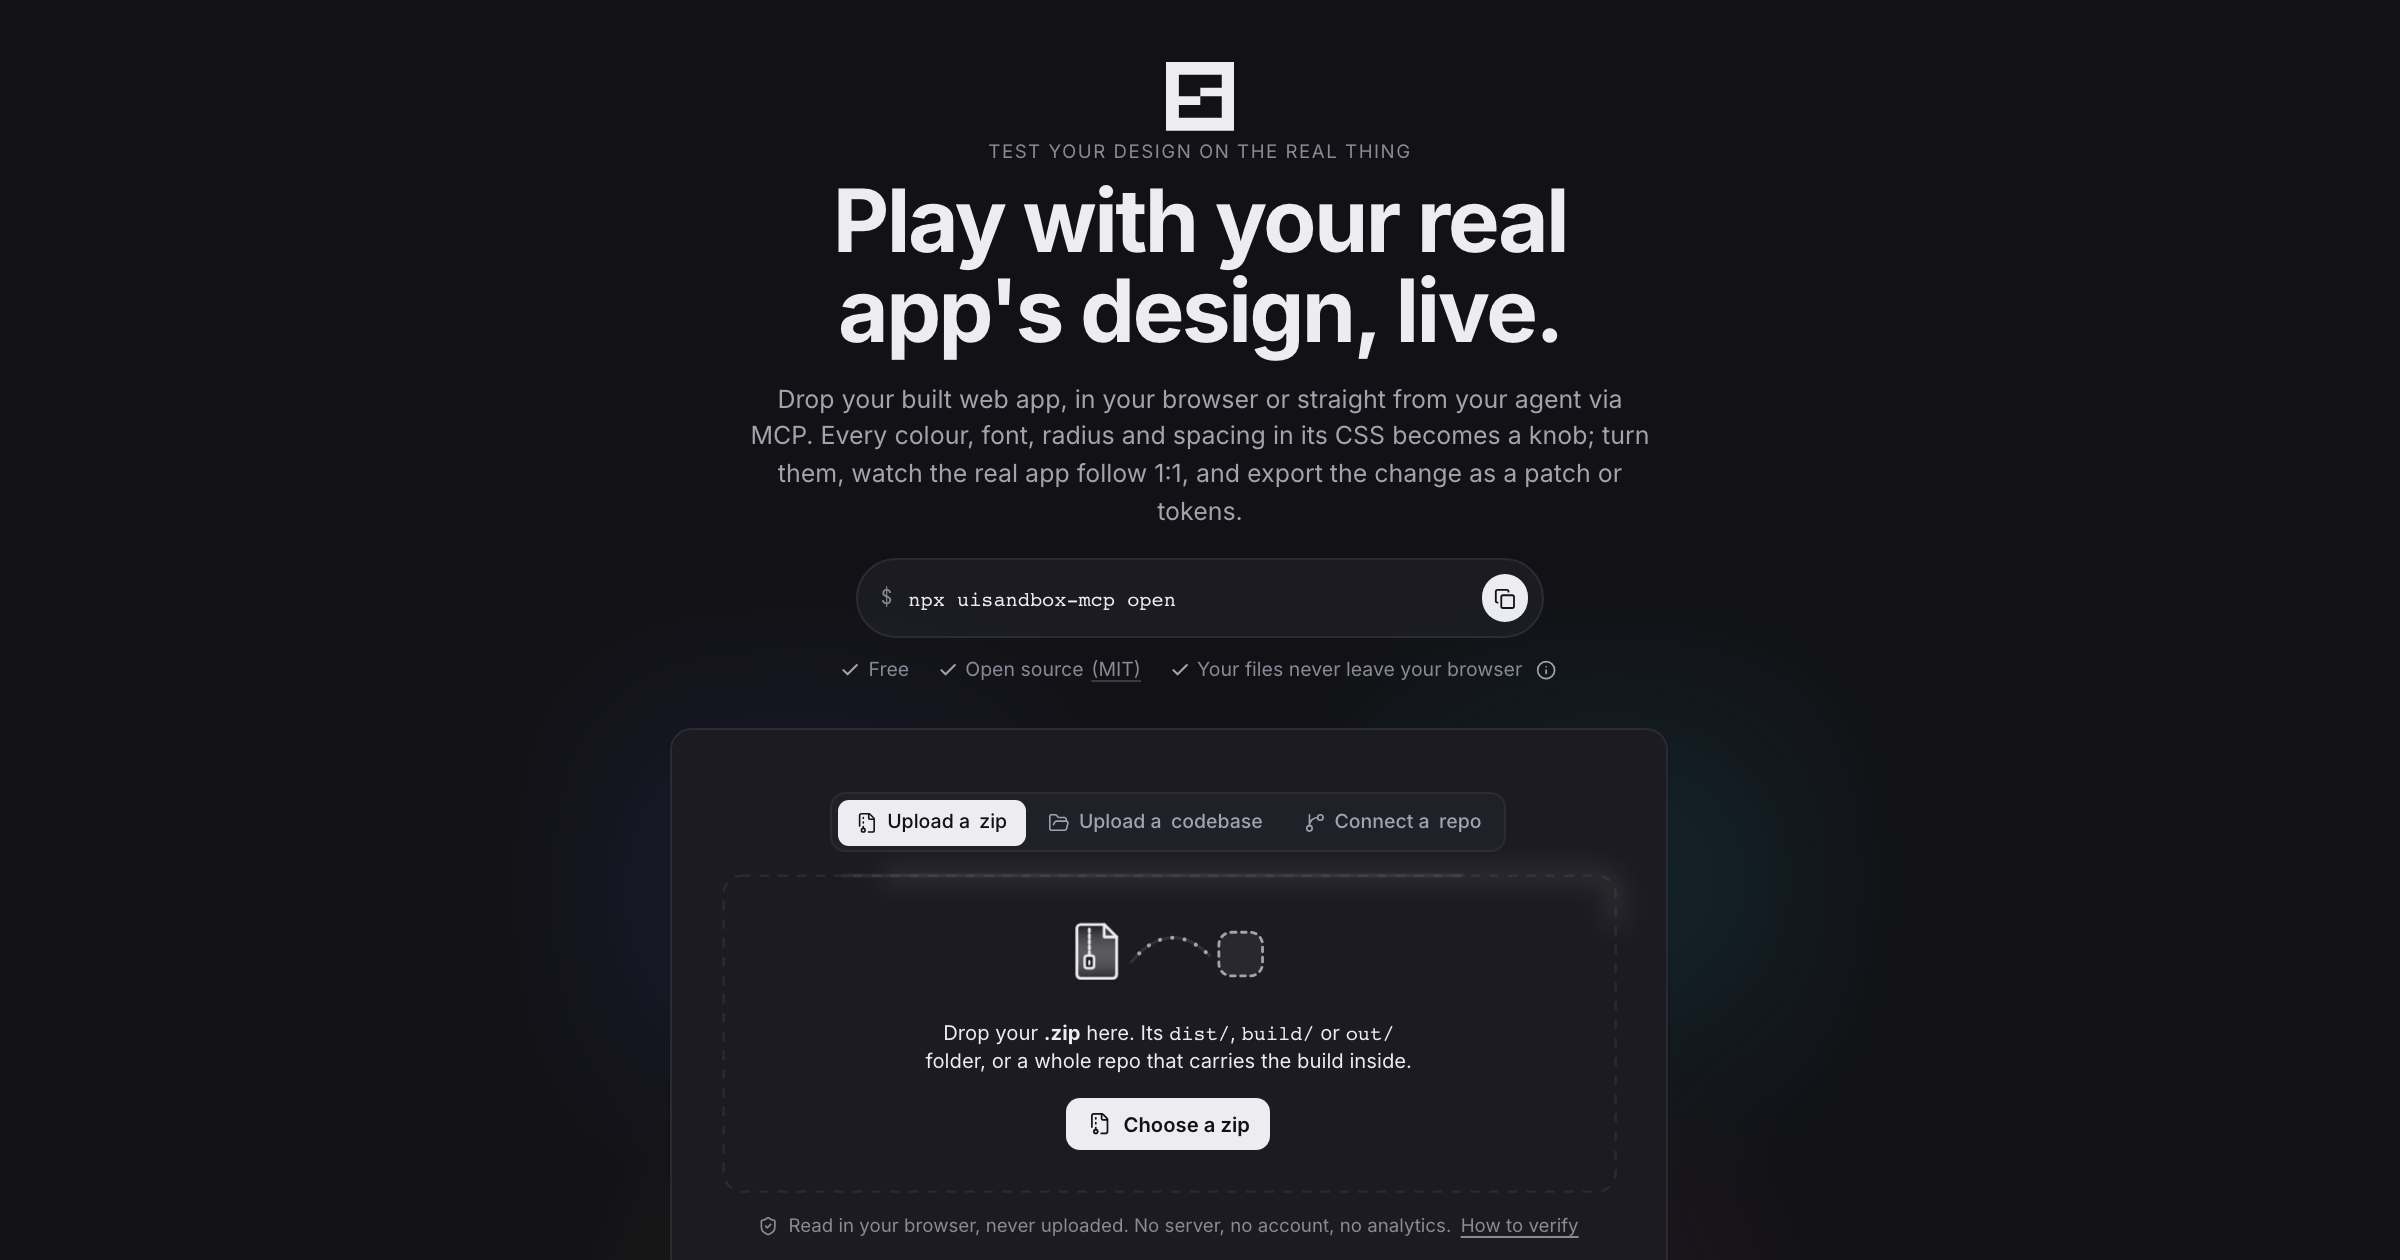
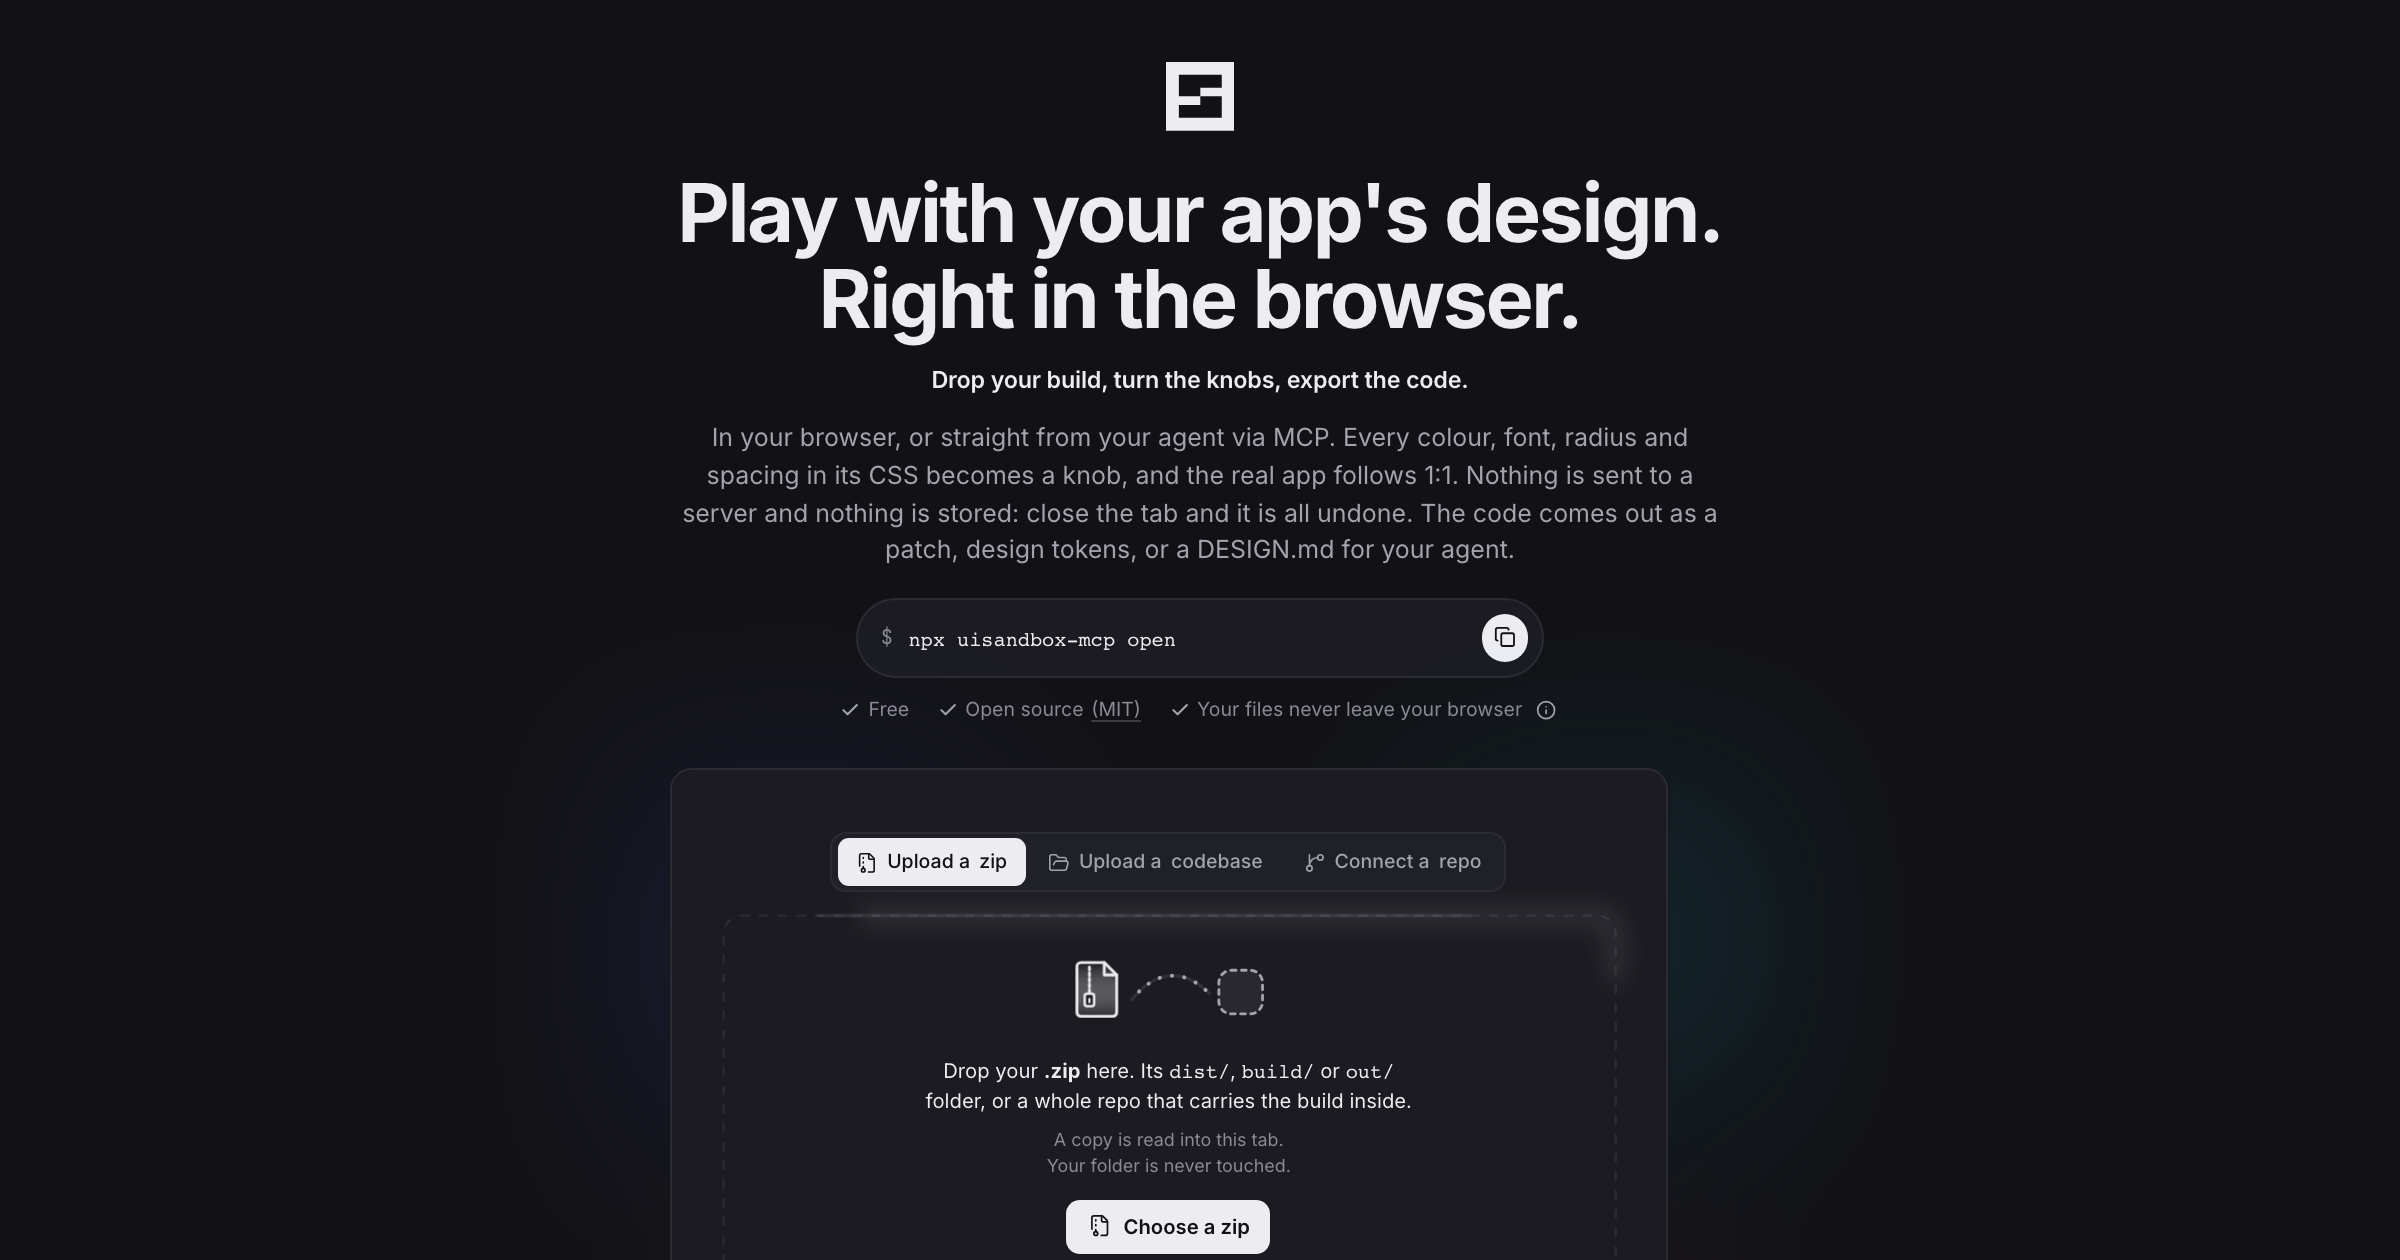
Every picture on the site still showed the old copy
The OG card is a screenshot of the landing, and it was taken before the
headline changed: it carried the removed kicker, 'Play with your real
app's design, live', the old paragraph and 'never uploaded'. That is what
every share on X, LinkedIn, Slack, Product Hunt and HN would have shown.
Same for the README hero and the eight landing screenshots, one of which
still had 'Nothing leaves your tab' in its footer.

Worse, the no-JS block inside index.html had drifted too: it held the new
three beats in the old kicker slot ABOVE an old headline, so a crawler
that does not run JavaScript, which is most of the LLM ones, was reading
a hero that no longer exists. It now mirrors the real one.

Regenerated: og.png, both marketing OG cards, the README hero, all eight
landing shots. Fixed the og.html template and dropped a .hero__kicker
override from two generators, since that class is gone.

diff --git a/index.html b/index.html
@@ -69,9 +69,11 @@
       .pre header span{display:inline-block;width:16px;height:16px;background:var(--fg);border-radius:3px;margin-right:8px}
       .pre main{flex:1;padding:48px 24px 64px;display:flex;flex-direction:column;align-items:center;text-align:center}
       .pre .m{width:44px;height:44px;background:var(--fg);border-radius:4px;margin-top:12px}
+      .pre .beats{font-size:15px;font-weight:600;letter-spacing:-.01em;color:var(--fg);margin:0 0 14px}
       .pre .k{font-size:12px;letter-spacing:.08em;text-transform:uppercase;color:var(--fa);margin-top:14px}
-      .pre h1{font-size:clamp(34px,6vw,56px);line-height:1.02;letter-spacing:-.03em;margin:8px 0 16px;font-weight:700}
-      .pre .s{font-size:16px;line-height:1.5;color:var(--mu);max-width:58ch;margin:0 auto 18px}
+      .pre h1{font-size:clamp(30px,5.4vw,52px);line-height:1.05;letter-spacing:-.03em;margin:22px 0 14px;font-weight:700}
+      .pre h1 span{display:block}
+      .pre .s{font-size:16px;line-height:1.5;color:var(--mu);max-width:66ch;margin:0 auto 18px}
       .pre .i{width:min(440px,100%);height:48px;border:1px solid var(--bd);border-radius:999px;margin:0 auto 28px;background:var(--sf)}
       .pre .c{width:min(680px,100%);min-height:320px;border:1px solid var(--bd);border-radius:16px;background:var(--sf);padding:28px 24px;box-sizing:border-box;font-size:14px;color:var(--mu)}
       .pre .c p{margin:0 0 10px}.pre .c p:last-child{margin:0}.pre .c b{color:var(--fg)}.pre .c a{color:var(--fg)}
@@ -83,9 +85,9 @@
         <header><span></span>UISandbox</header>
         <main>
           <div class="m"></div>
-          <div class="k">Drop your build, turn the knobs, export the code.</div>
-          <h1>Play with your real<br>app's design, live.</h1>
-          <p class="s">Drop your built web app, in your browser or straight from your agent via MCP. Every colour, font, radius and spacing in its CSS becomes a knob; turn them, watch the real app follow 1:1, and export the change as a patch or tokens.</p>
+          <h1><span>Play with your app's design.</span><span>Right in the browser.</span></h1>
+          <p class="beats">Drop your build, turn the knobs, export the code.</p>
+          <p class="s">In your browser, or straight from your agent via MCP. Every colour, font, radius and spacing in its CSS becomes a knob, and the real app follows 1:1. Nothing is sent to a server and nothing is stored: close the tab and it is all undone. The code comes out as a patch, design tokens, or a DESIGN.md for your agent.</p>
           <div class="i"></div>
           <p class="k" style="text-transform:none;letter-spacing:0;font-size:12.5px;margin:-16px 0 28px">✓ Free · ✓ Open source (MIT) · ✓ Your files never leave your browser</p>
           <div class="c">

diff --git a/scripts/og/og.html b/scripts/og/og.html
@@ -35,7 +35,7 @@
   </div>
   <div class="stage">
     <div class="brand"><svg viewBox="0 0 64 64"><path d="M64 64H0V0H64V64ZM12 32H32V40H12V52H52V32H32V24H52V12H12V32Z" fill="#ececf1" fill-rule="evenodd"/></svg>UISandbox</div>
-    <h1>Play with your real<br><span>app's design, live.</span></h1>
+    <h1>Play with your app's design.<br><span>Right in the browser.</span></h1>
     <p>Restyle your app without rebuilding it. Drop your build, turn the knobs, export the code: a patch, design tokens, or a DESIGN.md for your agent.</p>
   </div>
   <div class="foot"><span class="chip ok">✓ 1:1 verified · 1,184 elements</span><span class="chip">reach 100% colours · 100% type</span><span class="chip">MIT · free forever</span></div>
